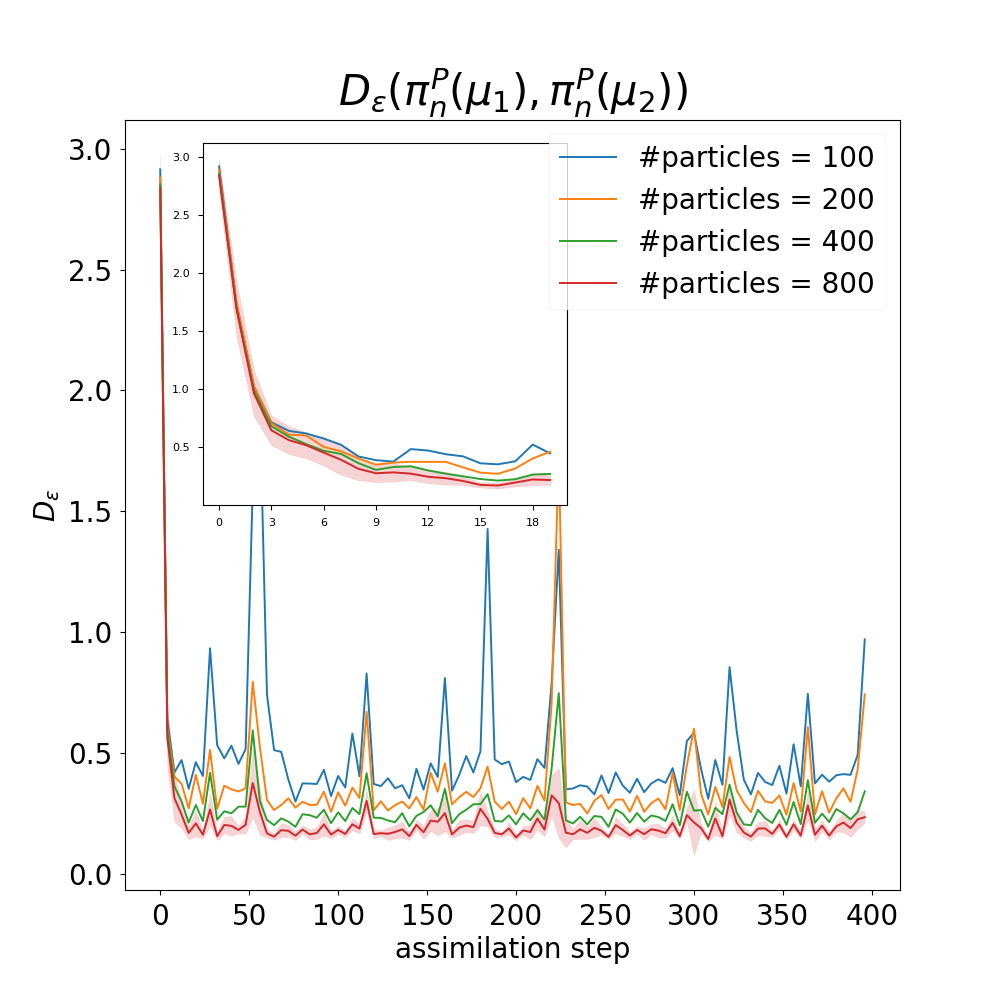
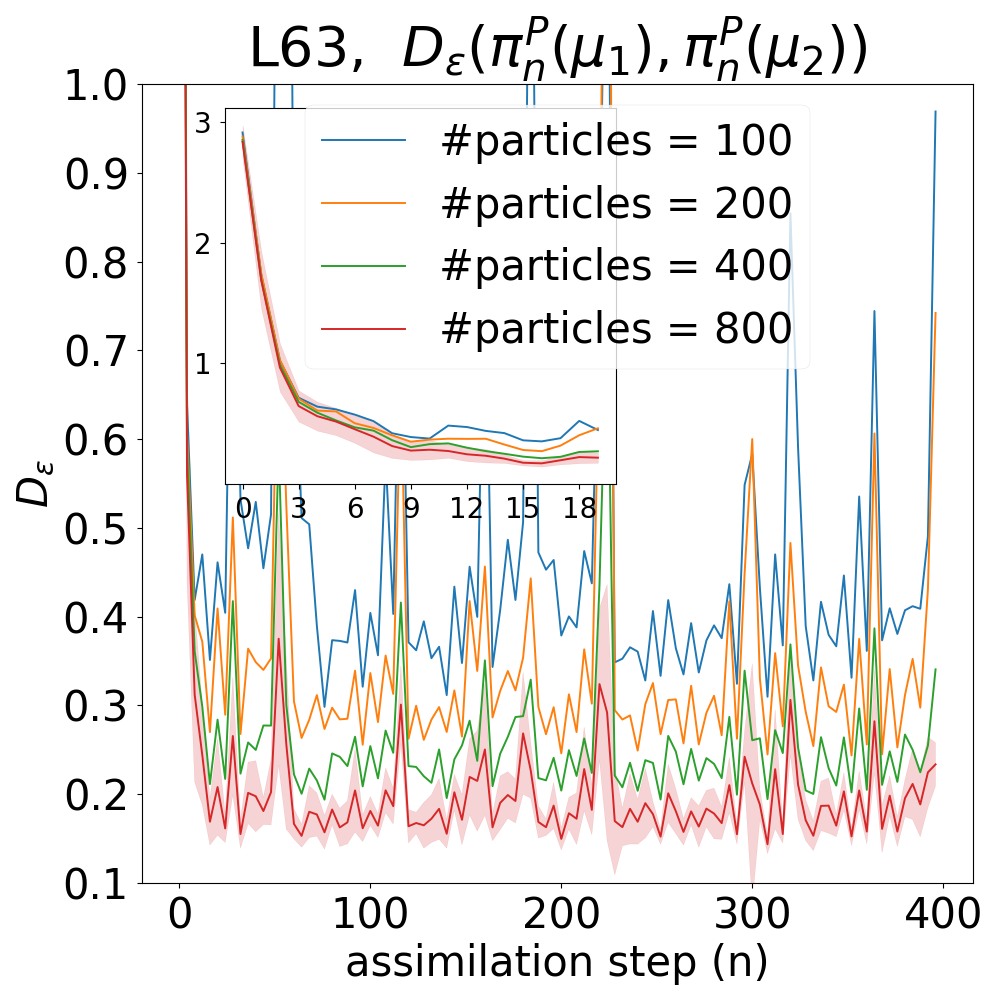
added readme

diff --git a/modules/batch_expr.py b/modules/batch_expr.py
@@ -153,15 +153,18 @@ class AvgDistPlotter:
         self.line_styles = [':', '-.', '--', '-']
         
 
-    def plot(self, save_path, gap=4, ev_time=400, low_idx=0, high_idx=None, pc_idx=None, inset=False, ev_time2=20):
+    def plot(self, save_path, gap=4, ev_time=400, low_idx=0, high_idx=None, pc_idx=None, inset=False, ev_time2=20, y_lims=[None, None]):
         with plt.style.context('seaborn-paper'): # 'tableau-colorblind10'
             fig = plt.figure(figsize=(10, 10))
             ax = fig.add_subplot(111)
-            ax.tick_params(axis='both', which='major', labelsize=20)
-            ax.tick_params(axis='both', which='minor', labelsize=20)
+            ax.tick_params(axis='both', which='major', labelsize=30)
+            ax.tick_params(axis='both', which='minor', labelsize=30)
+            ax.set_ylim([y_lims[0], y_lims[1]])
             if inset:
                 ax_inset = ax.inset_axes([0.1, 0.5, 0.47, 0.47])
                 ax_inset.xaxis.set_major_locator(MaxNLocator(integer=True))
+                ax_inset.tick_params(axis='both', which='major', labelsize=20)
+                ax_inset.tick_params(axis='both', which='minor', labelsize=20)
             if pc_idx is None:
                 pc_idx = list(range(len(self.particle_counts)))
             k = 0
@@ -192,15 +195,16 @@ class AvgDistPlotter:
                         df_inset = pd.read_csv(self.inset_dist_folder + '/' + folder + '/' + f)
                         df_inset = df_inset.loc[df_inset['time'].isin([k for k in range(ev_time2)])]
                         sns.lineplot(data=df_inset, x=df_inset['time'], y=df_inset['sinkhorn_div'], ci=ci, ax=ax_inset)
-                        ax_inset.set_xlabel('', fontsize=20)
-                        ax_inset.set_ylabel('', fontsize=20)
+                        ax_inset.set_xlabel('', fontsize=30)
+                        ax_inset.set_ylabel('', fontsize=30)
                         
                 k += 1
-            plt.xlabel('assimilation step', fontsize=20)
-            plt.ylabel('$D_{\epsilon}$', fontsize=20)
+            plt.xlabel('assimilation step (n)', fontsize=30)
+            plt.ylabel('$D_{\epsilon}$', fontsize=30)
             id_1, _,  id_2 = f.split('.')[0].split('_')
-            plt.title('$D_\epsilon(\pi_n^P(\mu_{}), \pi_n^P(\mu_{}))$'.format(id_1, id_2), fontsize=30)
-            plt.legend(fontsize=20)
+            plt.title('L63,  $D_\epsilon(\pi_n^P(\mu_{}), \pi_n^P(\mu_{}))$'.format(id_1, id_2), fontsize=40)
+            plt.legend(fontsize=30)
+            plt.tight_layout()
             plt.savefig(save_path)
 
 

diff --git a/experiments/batch_plot.py b/experiments/batch_plot.py
@@ -20,4 +20,4 @@ for id_ in [0, 1]:
         file_path = 'plots/{}/dist_{}.png'.format(id_, fnames[low_idx])
         # plot distances
         batch_plotter = be.AvgDistPlotter(dist_folder, initial_dist_folder)
-        batch_plotter.plot(file_path, gap=4, ev_time=400, low_idx=low_idx, high_idx=high_idx, pc_idx=pc_idx, inset=True)
+        batch_plotter.plot(file_path, gap=4, ev_time=400, low_idx=low_idx, high_idx=high_idx, pc_idx=pc_idx, inset=True, y_lims=[0.1, 1.0])
